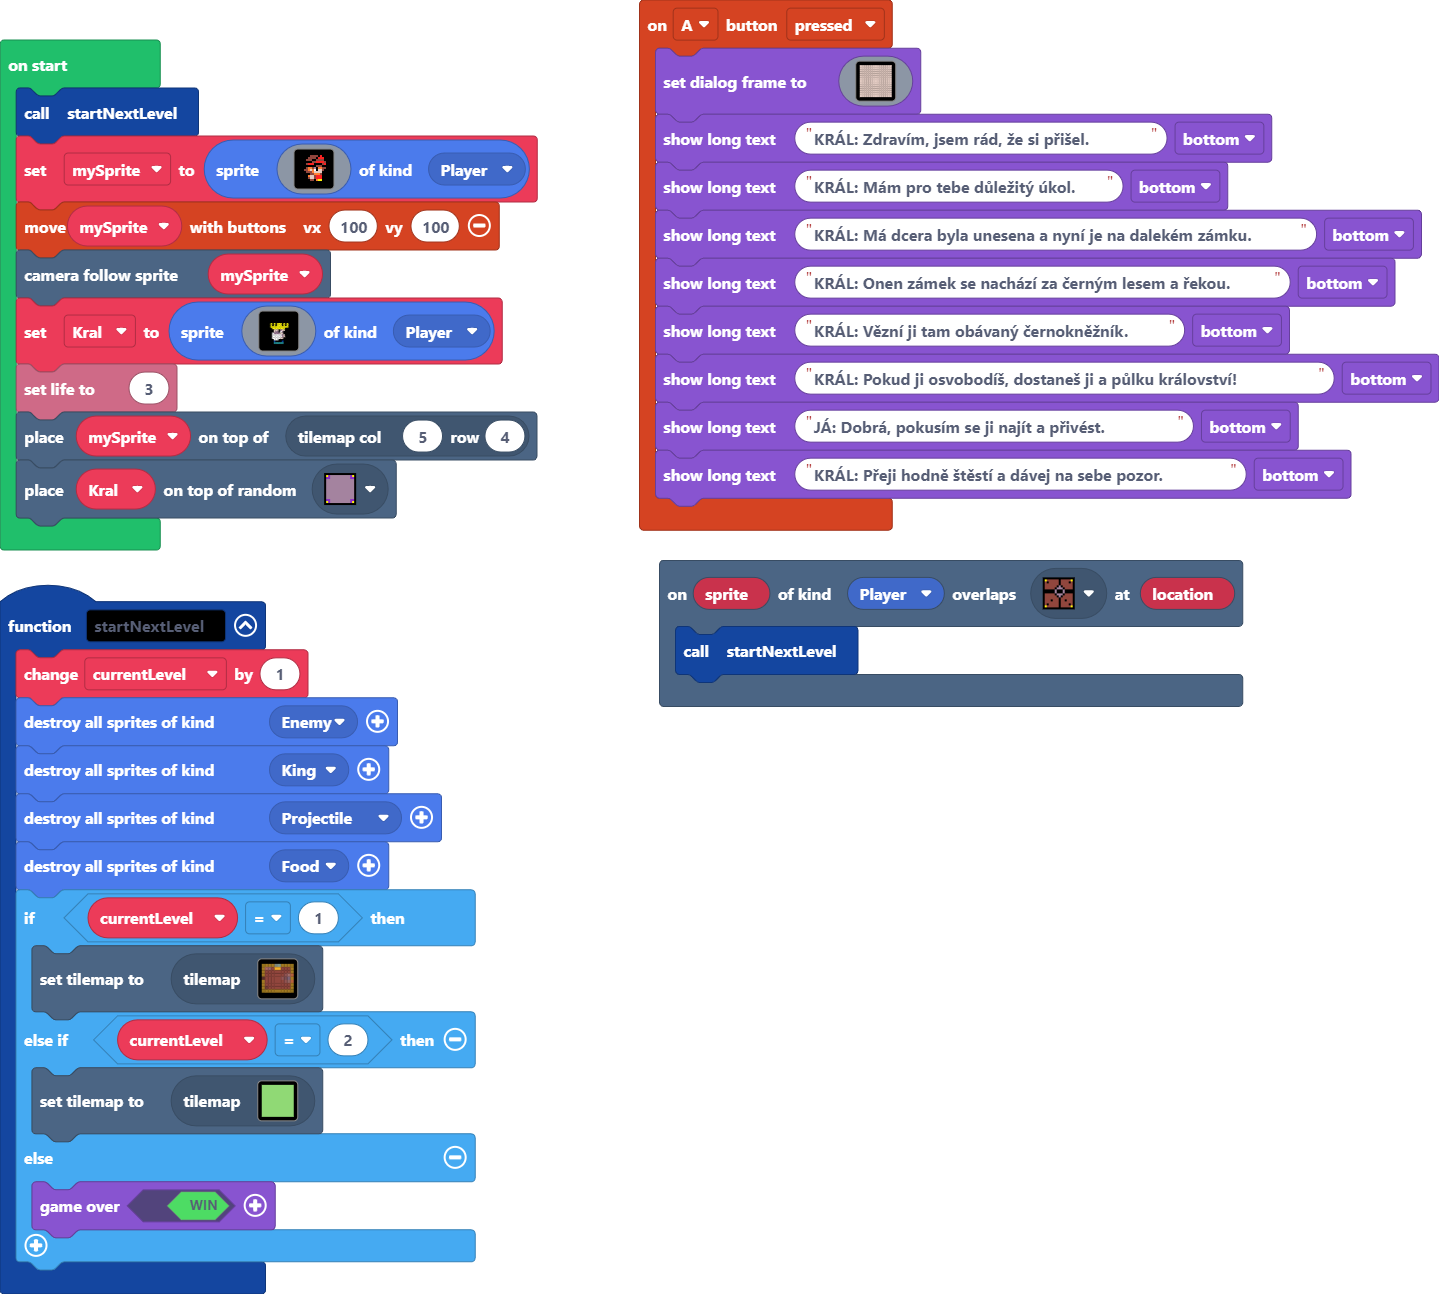
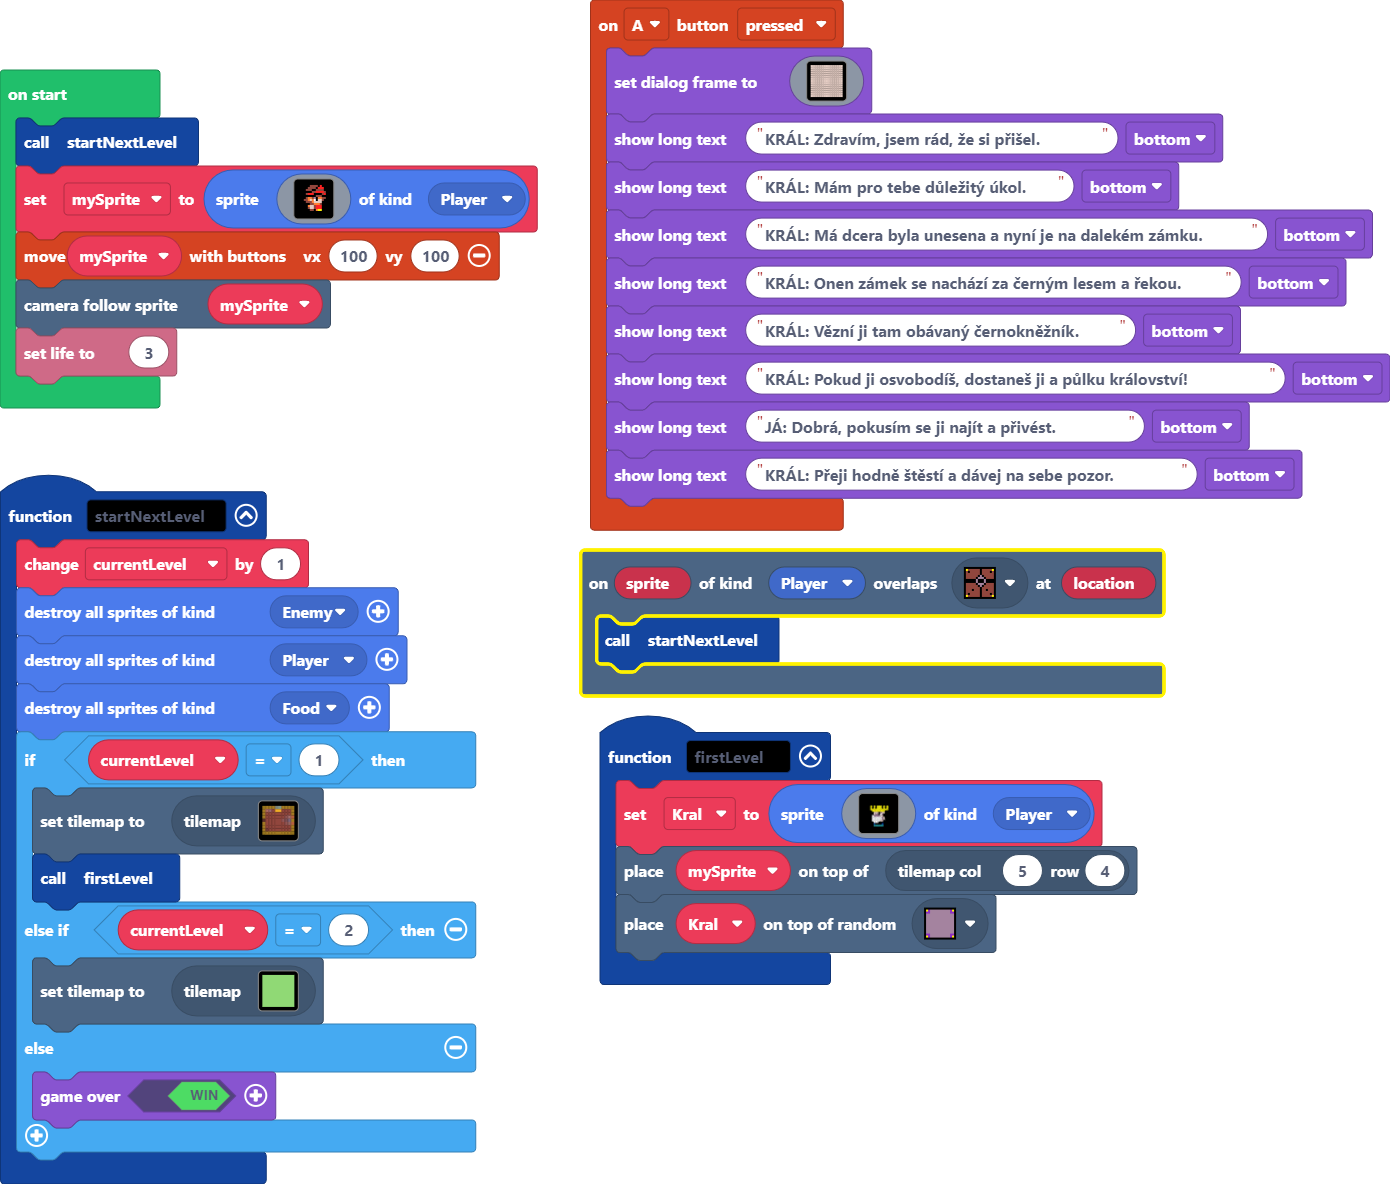
Update main.blocks, main.ts, tilemap.g.jres, tilemap.g.ts

diff --git a/tilemap.g.ts b/tilemap.g.ts
@@ -68,18 +68,6 @@ namespace myTiles {
 . . . . . . . . . . . . . . . . 
 . . . . . . . . . . . . . . . . 
 `, [myTiles.transparency16], TileScale.Sixteen);
-            case "level1":
[1 lines of base64/hex data omitted]
-2 2 2 2 2 2 2 2 2 2 
-2 . . . . . . . . 2 
-2 . . . . . . . . 2 
-2 . . . . . . . . 2 
-. . . . . . . . . 2 
-2 . . . . . . . . 2 
-2 . . . . . . . . 2 
-2 . . . . . . . . 2 
-2 2 2 2 2 2 2 2 2 2 
-`, [myTiles.transparency16,myTiles.tile2,myTiles.tile3,myTiles.tile6,myTiles.tile7,myTiles.tile8,myTiles.tile9,myTiles.tile10,myTiles.tile11,myTiles.tile13,myTiles.tile14,myTiles.tile15,myTiles.tile5,myTiles.tile1,myTiles.tile12,myTiles.tile4,myTiles.tile16,myTiles.tile17,myTiles.tile18,myTiles.tile19,myTiles.tile20,sprites.dungeon.chestClosed,myTiles.tile21,sprites.dungeon.chestOpen,myTiles.tile22], TileScale.Sixteen);
             case "level2":
             case "level2":return tiles.createTilemap(hex`1000100001010101010101010101010101010101010101010101010101010101010101010101010101010101010101010101010101010101010101010101010101010101010101010101010101010101010101010101010101010101010101010101010101010101010101010101010101010101010101010101010101010101010101010101010101010101010101010101010101010101010101010101010101010101010101010101010101010101010101010101010101010101010101010101010101010101010101010101010101010101010101010101010101010101010101010101010101010101010101010101010101010101010101010101010101010101`, img`
 . . . . . . . . . . . . . . . . 
@@ -99,6 +87,18 @@ namespace myTiles {
 . . . . . . . . . . . . . . . . 
 . . . . . . . . . . . . . . . . 
 `, [myTiles.transparency16,sprites.castle.tileGrass2], TileScale.Sixteen);
+            case "level1":
[1 lines of base64/hex data omitted]
+2 2 2 2 2 2 2 2 2 2 
+2 . . . . . . . . 2 
+2 . . . . . . . . 2 
+. . . . . . . . . 2 
+. . . . . . . . . 2 
+. . . . . . . . . 2 
+2 . . . . . . . . 2 
+2 . . . . . . . . 2 
+2 2 2 2 2 2 2 2 2 2 
+`, [myTiles.transparency16,myTiles.tile2,myTiles.tile3,myTiles.tile6,myTiles.tile7,myTiles.tile8,myTiles.tile9,myTiles.tile10,myTiles.tile11,myTiles.tile13,myTiles.tile14,myTiles.tile15,myTiles.tile5,myTiles.tile1,myTiles.tile12,myTiles.tile4,myTiles.tile16,myTiles.tile17,myTiles.tile18,myTiles.tile19,myTiles.tile20,sprites.dungeon.chestClosed,myTiles.tile21,sprites.dungeon.chestOpen,myTiles.tile22], TileScale.Sixteen);
         }
         return null;
     })

diff --git a/main.ts b/main.ts
@@ -35,23 +35,51 @@ controller.A.onEvent(ControllerButtonEvent.Pressed, function () {
 function startNextLevel () {
     currentLevel += 1
     sprites.destroyAllSpritesOfKind(SpriteKind.Enemy)
-    sprites.destroyAllSpritesOfKind(SpriteKind.King)
-    sprites.destroyAllSpritesOfKind(SpriteKind.Projectile)
+    sprites.destroyAllSpritesOfKind(SpriteKind.Player)
     sprites.destroyAllSpritesOfKind(SpriteKind.Food)
     if (currentLevel == 1) {
         tiles.setCurrentTilemap(tilemap`level1`)
+        firstLevel()
     } else if (currentLevel == 2) {
         tiles.setCurrentTilemap(tilemap`level2`)
     } else {
         game.over(true)
     }
 }
+function firstLevel () {
+    Kral = sprites.create(img`
+        ................
+        ................
+        ................
+        ................
+        ................
+        ...5.5.555.5.5..
+        ...5f5f555f5f5..
+        ...55555555555..
+        ....55555555ff..
+        ....fdddfbddff..
+        ....fdbbf1bfff..
+        ....1bbbbddff...
+        ....111111bdf...
+        ....111111bd....
+        ....11111ddf....
+        .....111fff.....
+        .....8ffff8.....
+        .....666666.....
+        ................
+        ................
+        `, SpriteKind.Player)
+    tiles.placeOnTile(mySprite, tiles.getTileLocation(5, 4))
+    tiles.placeOnRandomTile(Kral, assets.tile`myTile0`)
+}
 scene.onOverlapTile(SpriteKind.Player, assets.tile`dvere kral`, function (sprite, location) {
     startNextLevel()
 })
+let Kral: Sprite = null
 let currentLevel = 0
+let mySprite: Sprite = null
 startNextLevel()
-let mySprite = sprites.create(img`
+mySprite = sprites.create(img`
     . . . . . . f f f f f f . . . . 
     . . . . f f e e e e f 2 f . . . 
     . . . f f e e e e f 2 2 2 f . . 
@@ -71,28 +99,4 @@ let mySprite = sprites.create(img`
     `, SpriteKind.Player)
 controller.moveSprite(mySprite, 100, 100)
 scene.cameraFollowSprite(mySprite)
-let Kral = sprites.create(img`
-    ................
-    ................
-    ................
-    ................
-    ................
-    ...5.5.555.5.5..
-    ...5f5f555f5f5..
-    ...55555555555..
-    ....55555555ff..
-    ....fdddfbddff..
-    ....fdbbf1bfff..
-    ....1bbbbddff...
-    ....111111bdf...
-    ....111111bd....
-    ....11111ddf....
-    .....111fff.....
-    .....8ffff8.....
-    .....666666.....
-    ................
-    ................
-    `, SpriteKind.Player)
 info.setLife(3)
-tiles.placeOnTile(mySprite, tiles.getTileLocation(5, 4))
-tiles.placeOnRandomTile(Kral, assets.tile`myTile0`)
